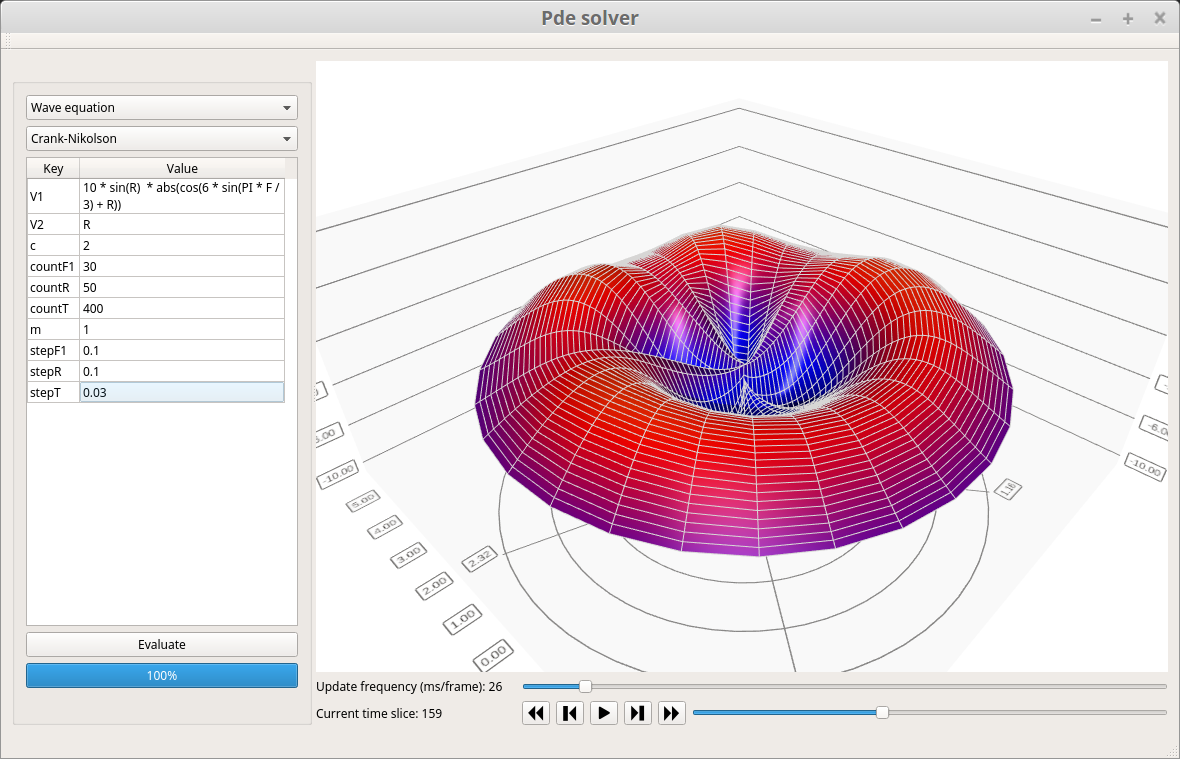
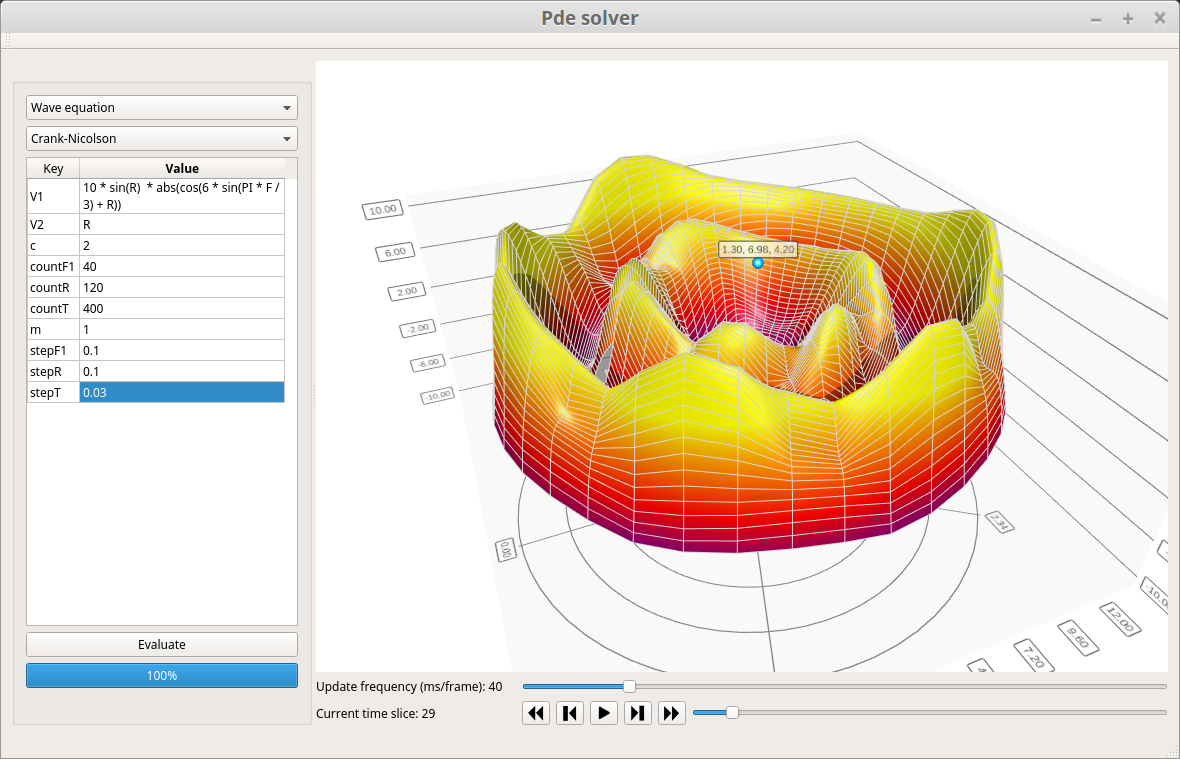
Small changes

diff --git a/pde_solver/pde_settings.cpp b/pde_solver/pde_settings.cpp
@@ -50,10 +50,10 @@ void PdeSettings::set_coords_type(CoordsType new_type, int new_dim)
     {
         V1_str = "10 * sin(R)  * abs(cos(6 * sin(PI * F / 3) + R))";
         V2_str = "R";
-        m_Coords.push_back(CoordGridSet_t(50, 0.1, 0, 1, "R"));
+        m_Coords.push_back(CoordGridSet_t(120, 0.1, 0, 1, "R"));
         for (int i = 1; i < new_dim; ++i)
         {
-            m_Coords.push_back(CoordGridSet_t(30, 0.1, 0, 1, "F" + QString::number(i)));
+            m_Coords.push_back(CoordGridSet_t(40, 0.1, 0, 1, "F" + QString::number(i)));
         }
         m_Coords.push_back(CoordGridSet_t(400, 0.03, 0, 1, "T"));
     }

diff --git a/pde_solver/pde_solver_wave_equation.cpp b/pde_solver/pde_solver_wave_equation.cpp
@@ -17,7 +17,7 @@ PdeSolverWaveEquation::~PdeSolverWaveEquation()
 QVector<SolutionMethod_t> PdeSolverWaveEquation::get_implemented_methods()
 {
     QVector<SolutionMethod_t> methods;
-    methods.push_back(PdeSolver::SolutionMethod_t("Crank-Nikolson", "Polar"));
+    methods.push_back(PdeSolver::SolutionMethod_t("Crank-Nicolson", "Polar"));
     return methods;
 }
 

diff --git a/README.md b/README.md
@@ -9,6 +9,9 @@ The project is configured with QMake. If you encounter problems with linking ple
 
 The program is meant to be platform-independent, although it is tested only on Linux Mint 18.2 Cinnamon 64-bit.
 
+## Docs
+The project supports auto-documentation by [Doxygen](www.doxygen.org). To generate docs, go to docs/ and type 'doxygen Doxyfile'. 'html' and 'latex' directories will appear. The default page for html files is html/index.html.
+
 ## Images
 ![screenshot](https://github.com/oyyablokov/pde_numeric_solver/blob/master/images/heat_equation1.png)
 ![screenshot](https://github.com/oyyablokov/pde_numeric_solver/blob/master/images/wave_equation1.png)
